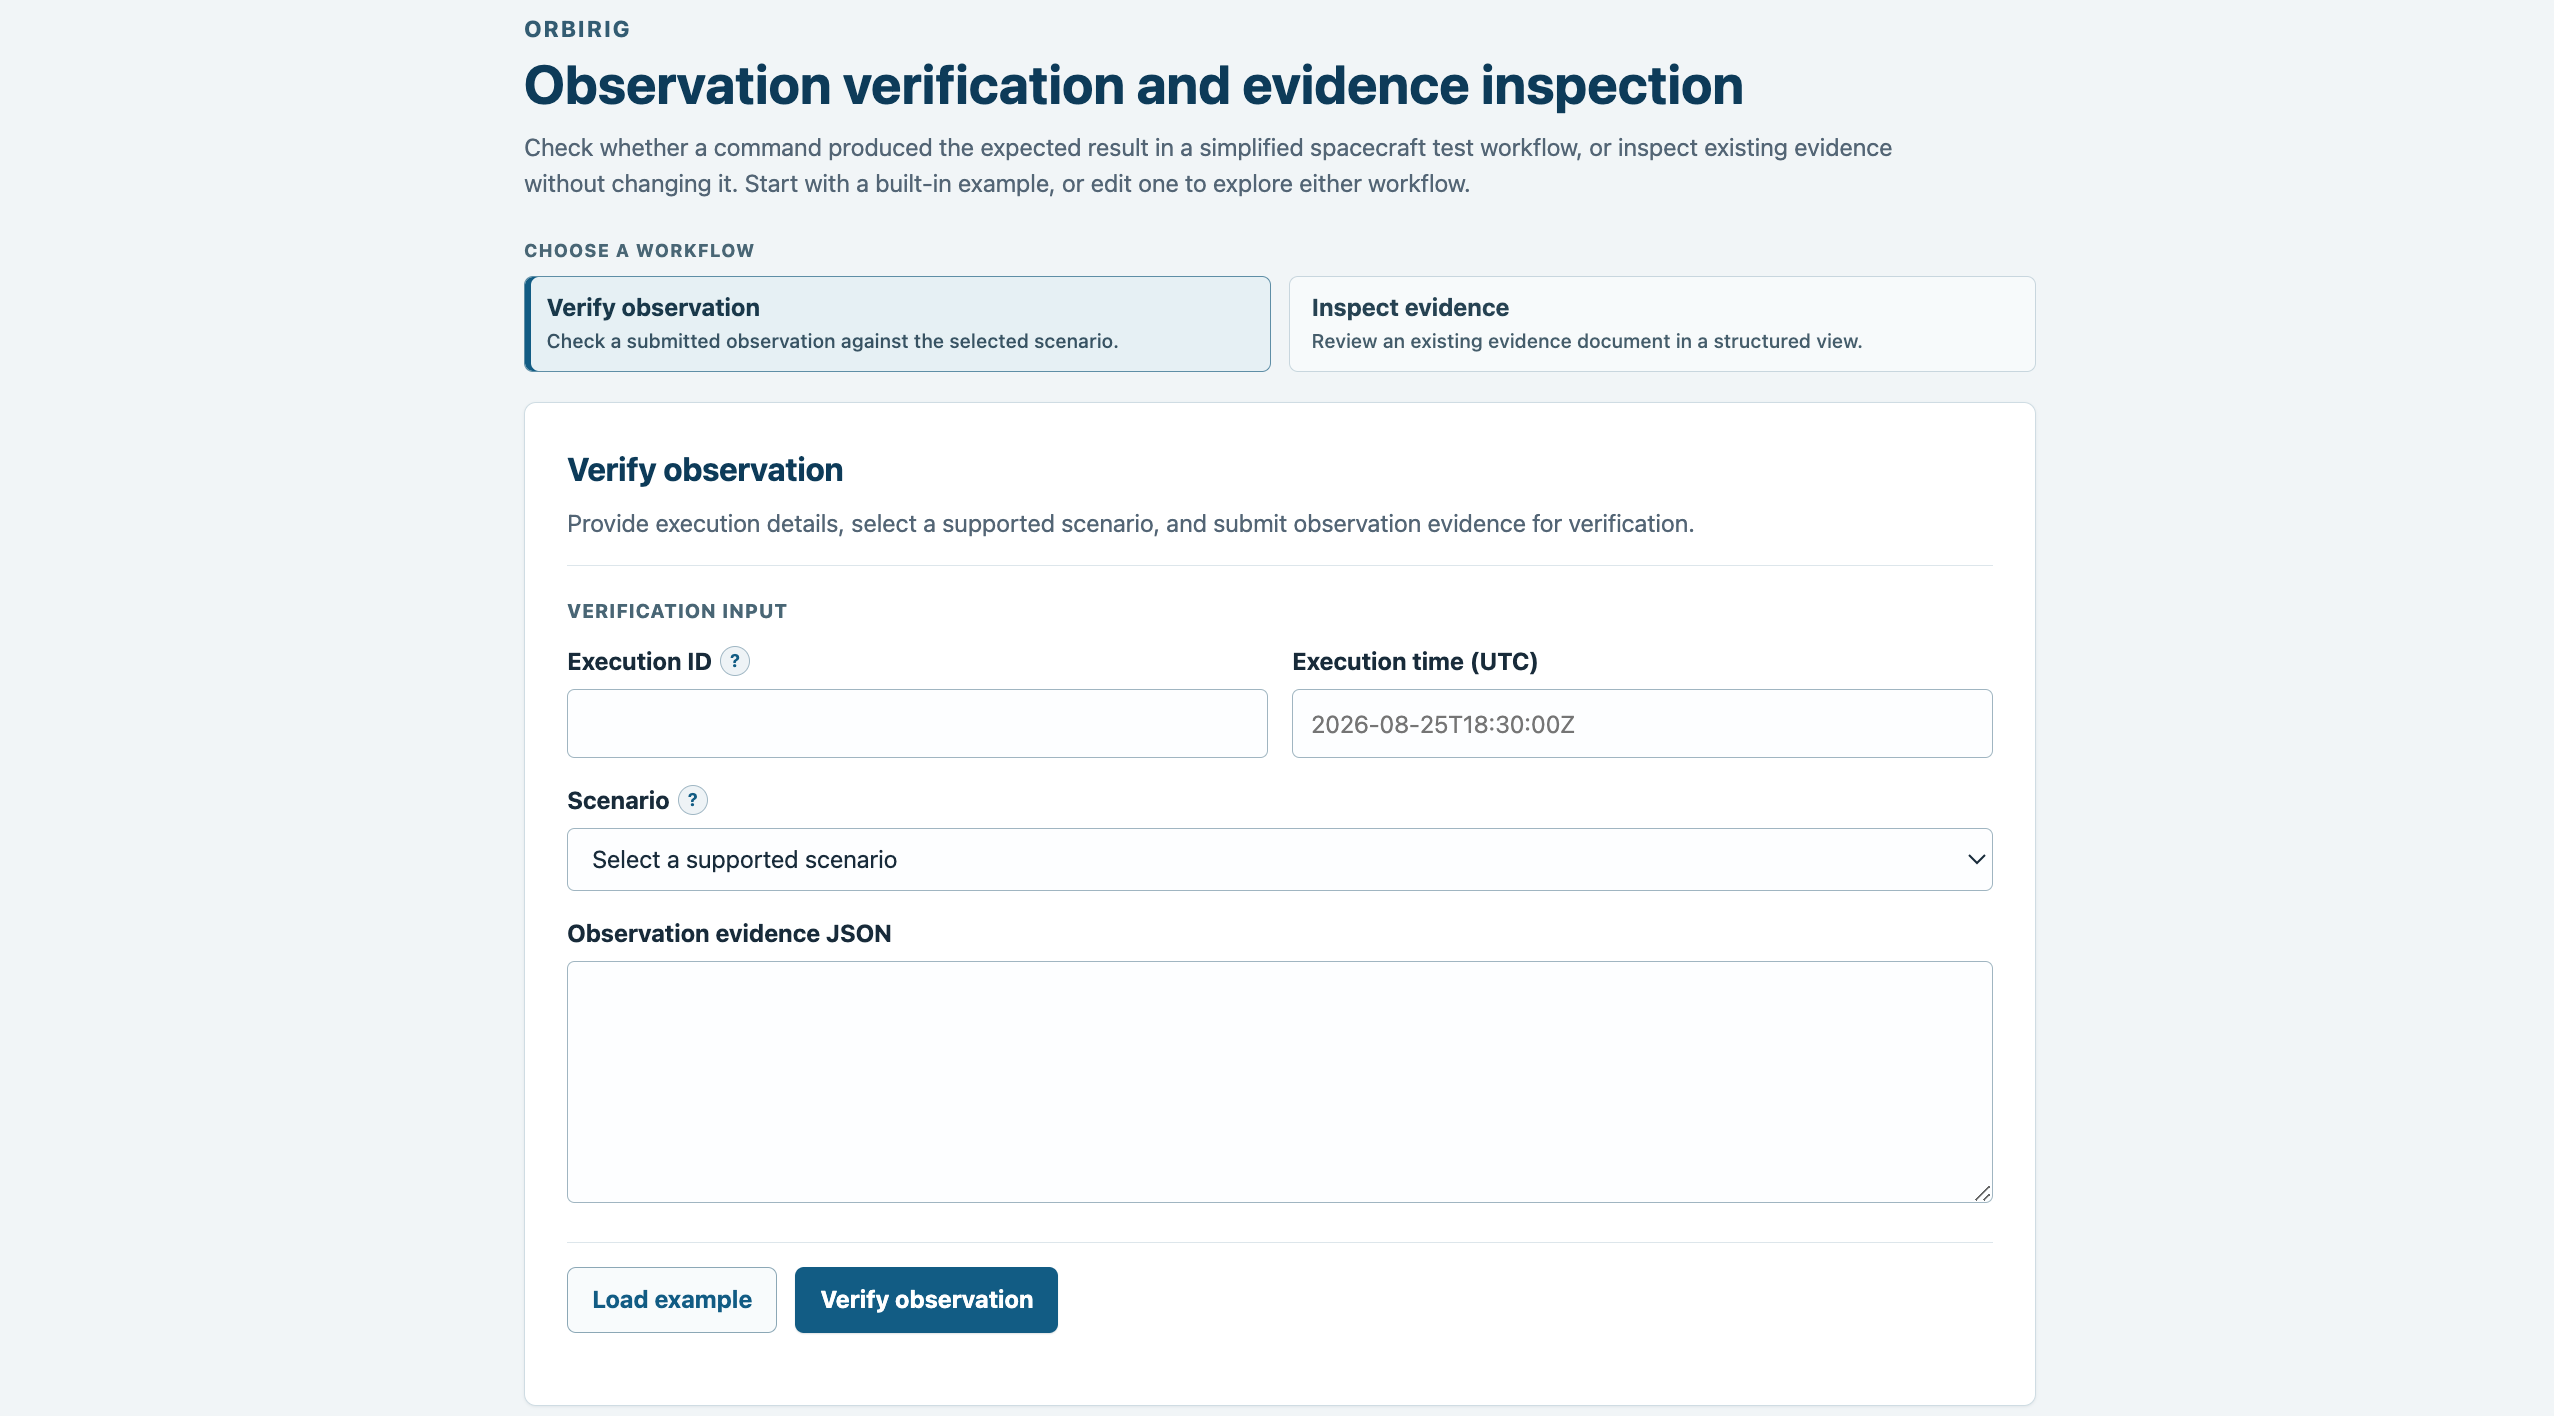
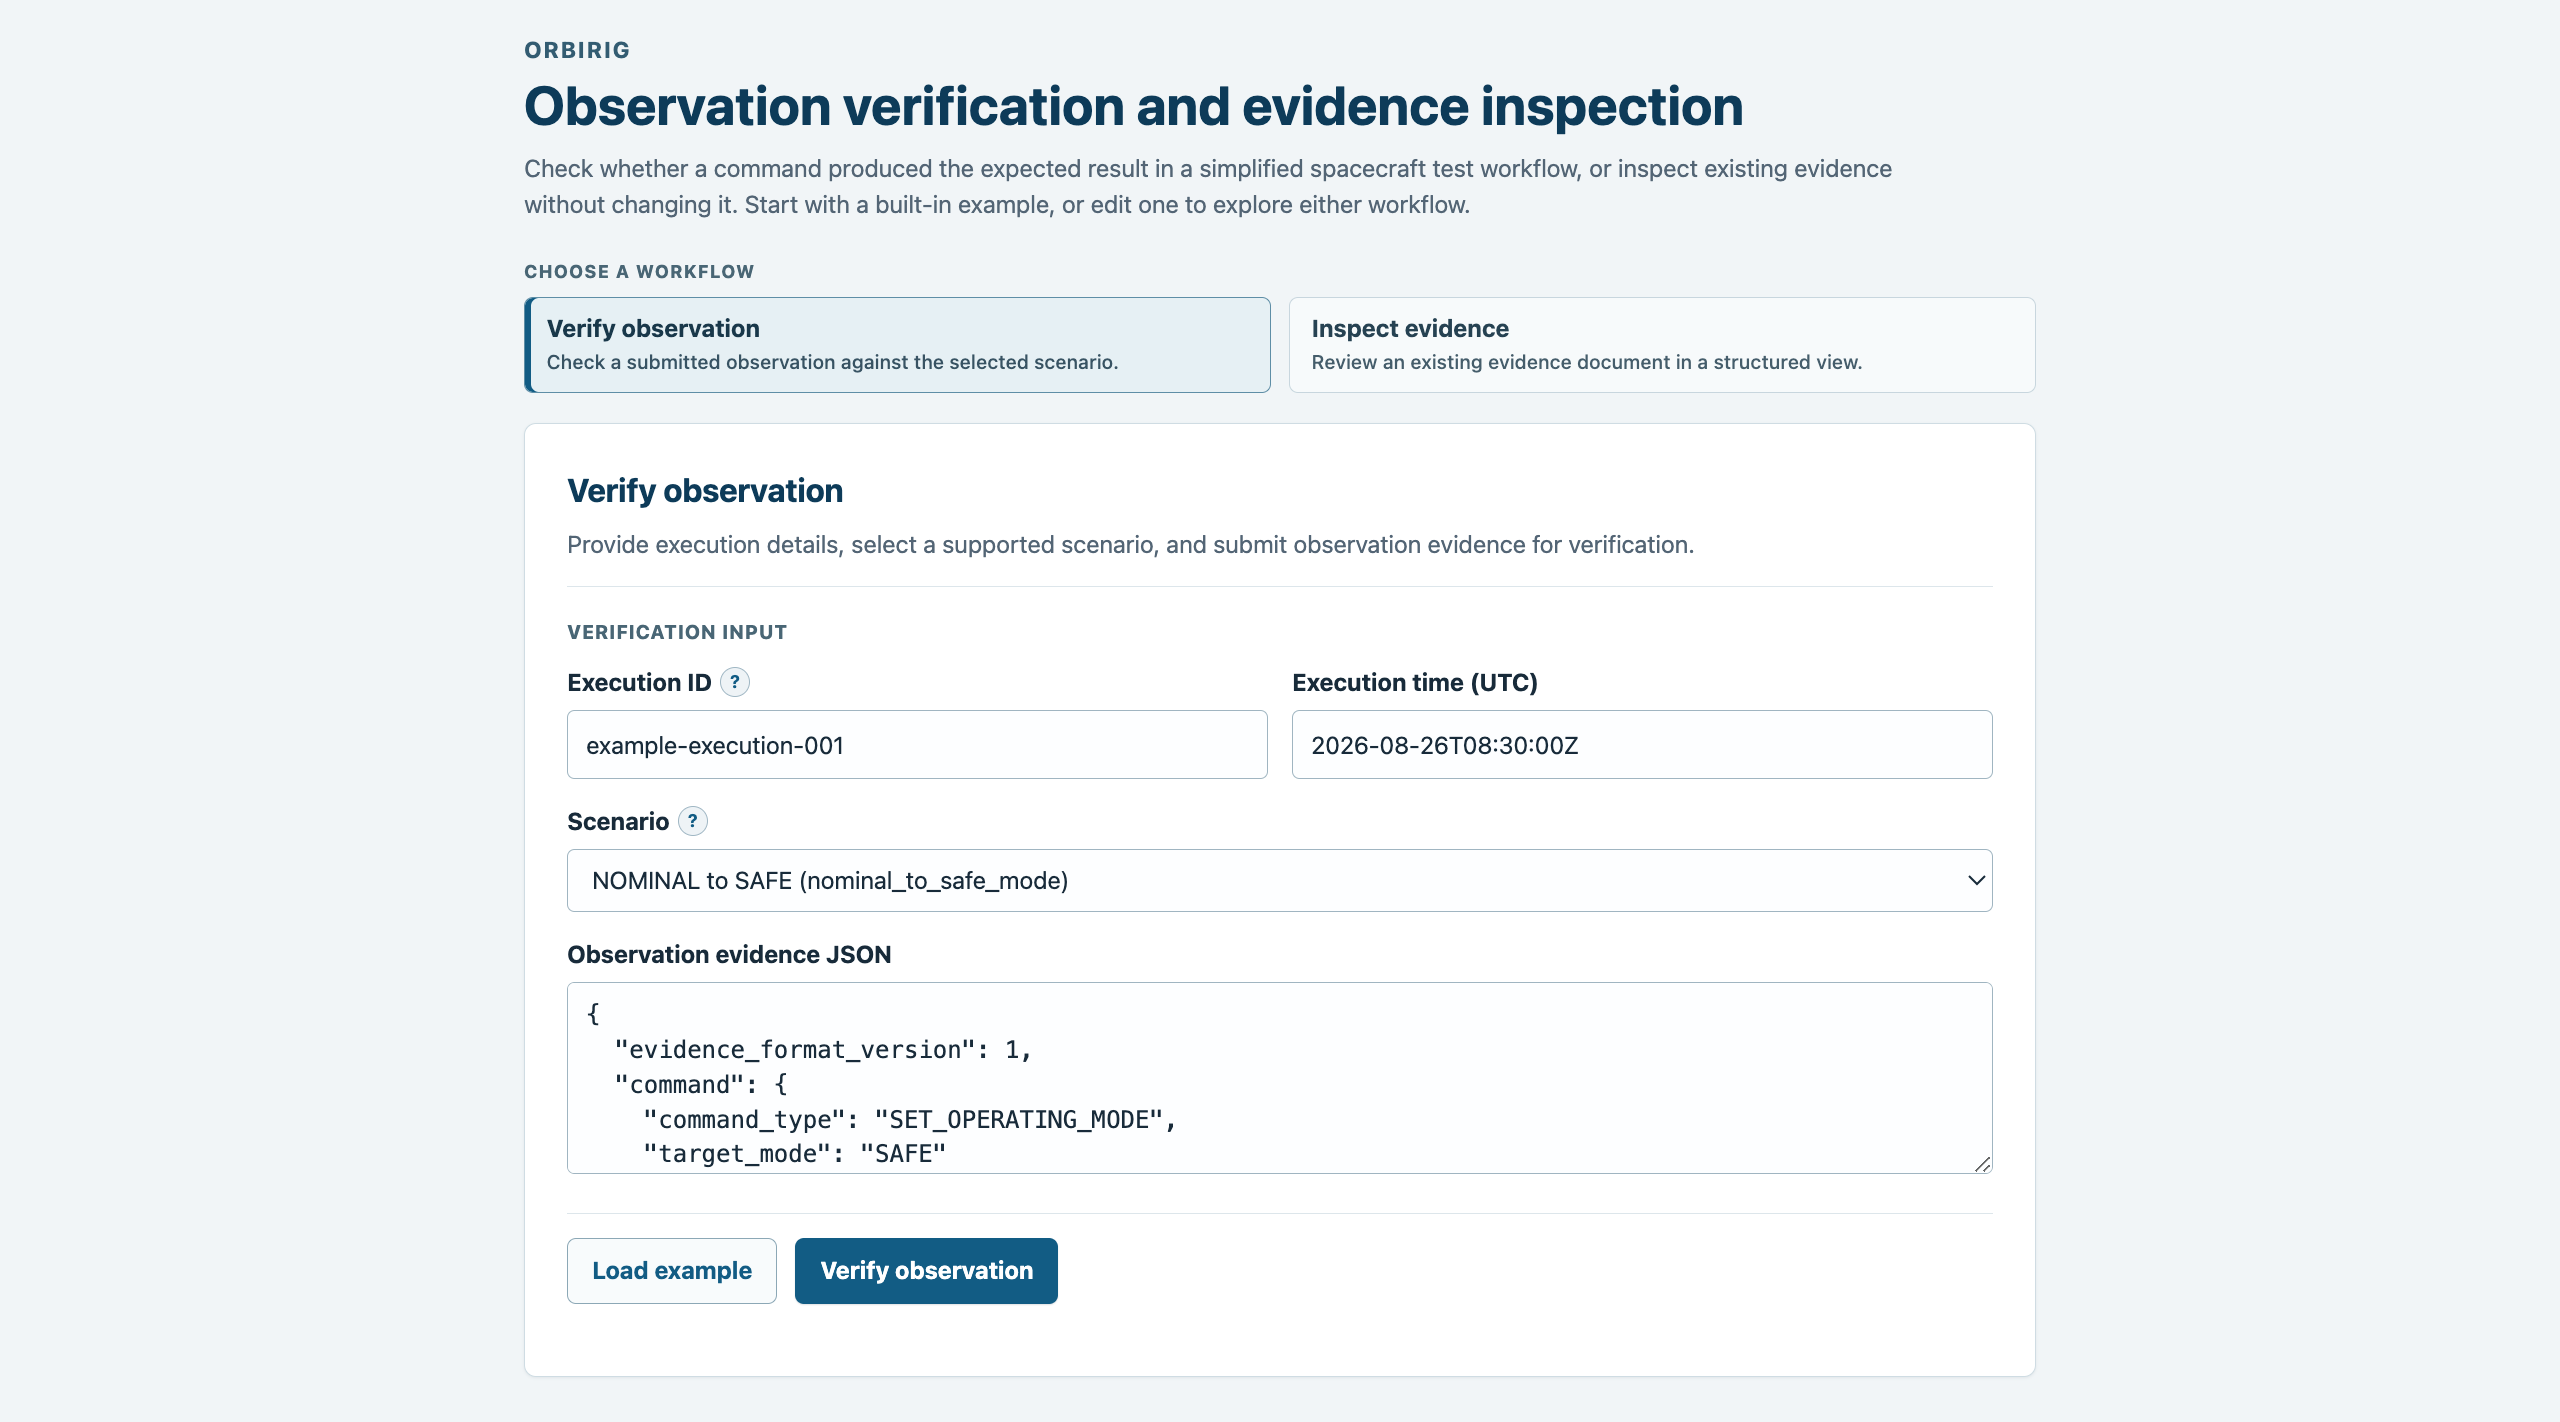
Add scenario-aware verification examples (#65)

diff --git a/frontend/src/App.tsx b/frontend/src/App.tsx
@@ -149,7 +149,7 @@ const REQUIRED_VERIFICATION_MESSAGES: Record<
   observationEvidence: "Observation evidence is required.",
 };
 
-const EXAMPLE_OBSERVATION_DOCUMENT = {
+const NOMINAL_TO_SAFE_EXAMPLE_OBSERVATION_DOCUMENT = {
   evidence_format_version: 1,
   command: {
     command_type: "SET_OPERATING_MODE",
@@ -166,6 +166,46 @@ const EXAMPLE_OBSERVATION_DOCUMENT = {
   },
   telemetry: {
     operating_mode: "SAFE",
+  },
+};
+
+const NOMINAL_TO_NOMINAL_REJECTION_EXAMPLE_OBSERVATION_DOCUMENT = {
+  evidence_format_version: 1,
+  command: {
+    command_type: "SET_OPERATING_MODE",
+    target_mode: "NOMINAL",
+  },
+  pre_state: {
+    operating_mode: "NOMINAL",
+  },
+  acknowledgement: {
+    accepted: false,
+  },
+  post_state: {
+    operating_mode: "NOMINAL",
+  },
+  telemetry: {
+    operating_mode: "NOMINAL",
+  },
+};
+
+const SAFE_TO_NOMINAL_EXAMPLE_OBSERVATION_DOCUMENT = {
+  evidence_format_version: 1,
+  command: {
+    command_type: "SET_OPERATING_MODE",
+    target_mode: "NOMINAL",
+  },
+  pre_state: {
+    operating_mode: "SAFE",
+  },
+  acknowledgement: {
+    accepted: true,
+  },
+  post_state: {
+    operating_mode: "NOMINAL",
+  },
+  telemetry: {
+    operating_mode: "NOMINAL",
   },
 };
 
@@ -300,15 +340,51 @@ const EXAMPLE_VERIFIED_EXECUTION_SEQUENCE_DOCUMENT = {
   outcome: "PASS",
 };
 
-const VERIFICATION_EXAMPLE = {
-  executionId: "example-execution-001",
-  executedAt: "2026-08-26T08:30:00Z",
-  scenarioId: "nominal_to_safe_mode" as const,
-  observationEvidence: JSON.stringify(EXAMPLE_OBSERVATION_DOCUMENT, null, 2),
+const DEFAULT_VERIFICATION_SCENARIO: ScenarioId = "nominal_to_safe_mode";
+
+const VERIFICATION_EXAMPLES: Record<
+  ScenarioId,
+  {
+    executionId: string;
+    executedAt: string;
+    observationEvidence: string;
+  }
+> = {
+  nominal_to_safe_mode: {
+    executionId: "example-execution-001",
+    executedAt: "2026-08-26T08:30:00Z",
+    observationEvidence: JSON.stringify(
+      NOMINAL_TO_SAFE_EXAMPLE_OBSERVATION_DOCUMENT,
+      null,
+      2,
+    ),
+  },
+  nominal_to_nominal_rejection: {
+    executionId: "example-execution-002",
+    executedAt: "2026-08-26T08:35:00Z",
+    observationEvidence: JSON.stringify(
+      NOMINAL_TO_NOMINAL_REJECTION_EXAMPLE_OBSERVATION_DOCUMENT,
+      null,
+      2,
+    ),
+  },
+  safe_to_nominal_mode: {
+    executionId: "example-execution-003",
+    executedAt: "2026-08-26T08:40:00Z",
+    observationEvidence: JSON.stringify(
+      SAFE_TO_NOMINAL_EXAMPLE_OBSERVATION_DOCUMENT,
+      null,
+      2,
+    ),
+  },
 };
 
 const INSPECTION_EXAMPLES: Record<EvidenceType, string> = {
-  observation: JSON.stringify(EXAMPLE_OBSERVATION_DOCUMENT, null, 2),
+  observation: JSON.stringify(
+    NOMINAL_TO_SAFE_EXAMPLE_OBSERVATION_DOCUMENT,
+    null,
+    2,
+  ),
   "verified-execution": JSON.stringify(
     EXAMPLE_VERIFIED_EXECUTION_DOCUMENT,
     null,
@@ -444,10 +520,14 @@ export function App() {
   }
 
   function loadVerificationExample() {
-    setExecutionId(VERIFICATION_EXAMPLE.executionId);
-    setExecutedAt(VERIFICATION_EXAMPLE.executedAt);
-    setScenarioId(VERIFICATION_EXAMPLE.scenarioId);
-    setObservationEvidence(VERIFICATION_EXAMPLE.observationEvidence);
+    const selectedScenario =
+      scenarioId === "" ? DEFAULT_VERIFICATION_SCENARIO : scenarioId;
+    const example = VERIFICATION_EXAMPLES[selectedScenario];
+
+    setExecutionId(example.executionId);
+    setExecutedAt(example.executedAt);
+    setScenarioId(selectedScenario);
+    setObservationEvidence(example.observationEvidence);
     setVerificationRequiredErrors({});
     setVerification({ kind: "idle" });
   }

diff --git a/frontend/src/App.test.tsx b/frontend/src/App.test.tsx
@@ -640,6 +640,74 @@ describe("App", () => {
     );
   });
 
+  it.each([
+    [
+      "nominal_to_nominal_rejection",
+      "example-execution-002",
+      "2026-08-26T08:35:00Z",
+      {
+        evidence_format_version: 1,
+        command: { target_mode: "NOMINAL" },
+        pre_state: { operating_mode: "NOMINAL" },
+        acknowledgement: { accepted: false },
+        post_state: { operating_mode: "NOMINAL" },
+        telemetry: { operating_mode: "NOMINAL" },
+      },
+    ],
+    [
+      "safe_to_nominal_mode",
+      "example-execution-003",
+      "2026-08-26T08:40:00Z",
+      {
+        evidence_format_version: 1,
+        command: { target_mode: "NOMINAL" },
+        pre_state: { operating_mode: "SAFE" },
+        acknowledgement: { accepted: true },
+        post_state: { operating_mode: "NOMINAL" },
+        telemetry: { operating_mode: "NOMINAL" },
+      },
+    ],
+  ])(
+    "loads the selected %s verification example",
+    (scenario, executionId, executedAt, expectedEvidence) => {
+      render(<App />);
+
+      fireEvent.change(screen.getByLabelText("Scenario"), {
+        target: { value: scenario },
+      });
+      fireEvent.click(screen.getByRole("button", { name: "Load example" }));
+
+      expect(screen.getByLabelText("Execution ID")).toHaveValue(executionId);
+      expect(screen.getByLabelText("Execution time (UTC)")).toHaveValue(
+        executedAt,
+      );
+      expect(screen.getByLabelText("Scenario")).toHaveValue(scenario);
+      expect(
+        JSON.parse(
+          (screen.getByLabelText(
+            "Observation evidence JSON",
+          ) as HTMLTextAreaElement).value,
+        ),
+      ).toMatchObject(expectedEvidence);
+      expect(fetchMock).not.toHaveBeenCalled();
+    },
+  );
+
+  it("does not replace observation evidence when only the scenario changes", () => {
+    render(<App />);
+
+    const evidence = screen.getByLabelText("Observation evidence JSON");
+
+    fireEvent.change(evidence, {
+      target: { value: "edited observation evidence" },
+    });
+    fireEvent.change(screen.getByLabelText("Scenario"), {
+      target: { value: "safe_to_nominal_mode" },
+    });
+
+    expect(evidence).toHaveValue("edited observation evidence");
+  });
+
   it("clears a completed verification when loading a new example", async () => {
     fetchMock.mockResolvedValue({
       ok: true,
